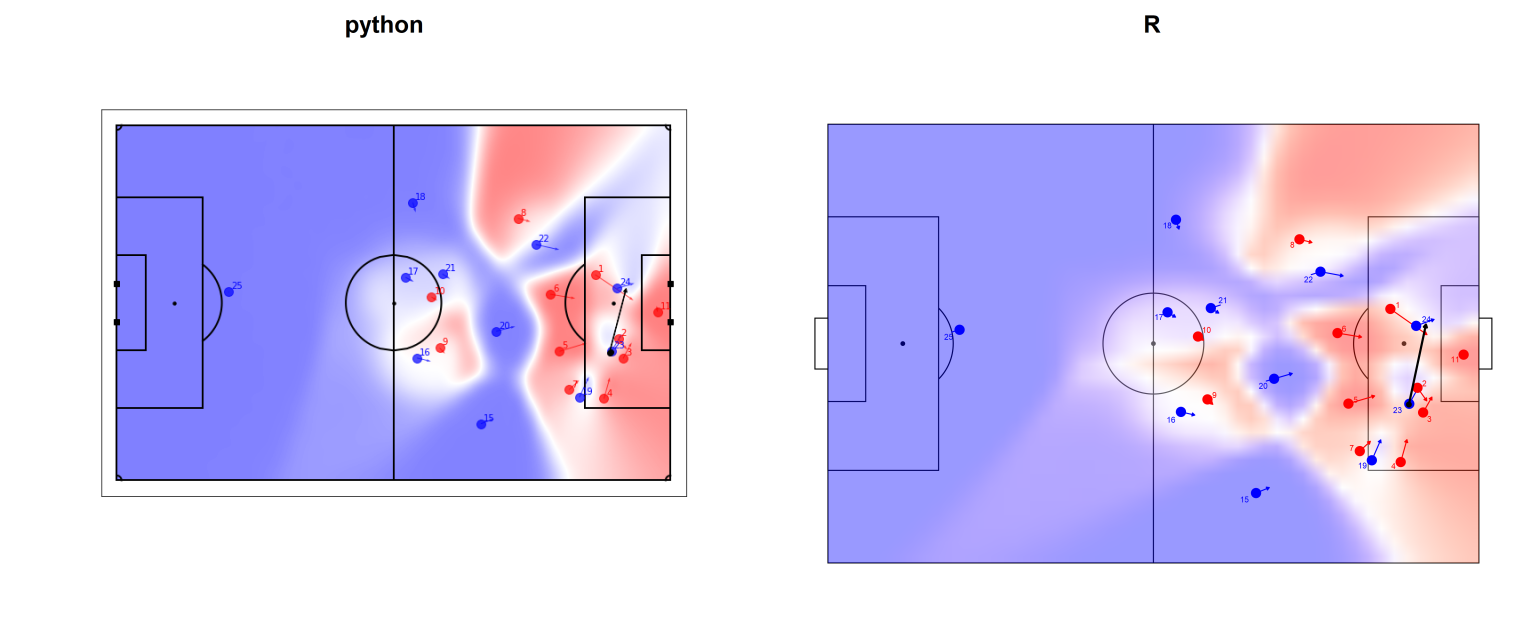
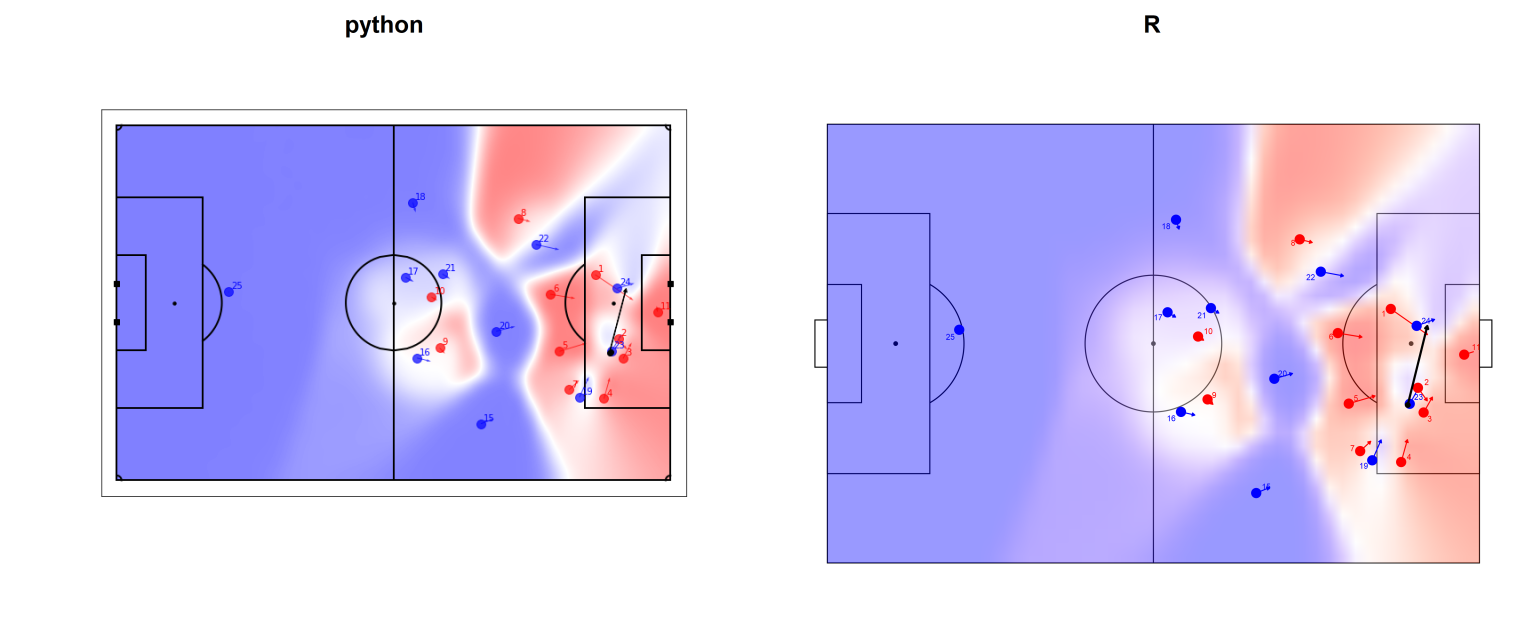
update pitch control post with fixes for field dimensions

diff --git a/content/post/soccer-pitch-control-r/index.html b/content/post/soccer-pitch-control-r/index.html
@@ -21,6 +21,7 @@ output:
 <script src="/rmarkdown-libs/header-attrs/header-attrs.js"></script>
 
 
+<p><strong><em>Note: This post was update on 2020-09-24 to correct field dimension translations that were previously distorting the pitch control contours. The R analogues now match up much more closely with the python versions after the updates.</em></strong></p>
 <div id="intro" class="section level2">
 <h2>Intro</h2>
 <p>There’s never been a better time to be involved in sports analytics. There is a wealth of open-sourced data and code (not to mention well-researched and public analysis) to digest and use. Both people working for teams and people just doing at as a hobby are publishing new and interesting analyses every day.</p>
@@ -68,7 +69,7 @@ output:
 <p><img src="viz_tti_ex.png" /></p>
 <p>The probability of reaching the “target” location (<code>p_intercept</code>) is directly related to the player’s <code>tti</code>. Uncertainty about how long it will take the player to reach the target location is quantified by the constant <code>tti_sigma</code> in the calculation. (<code>tti</code> is the mean and <code>tti_sigma</code> is the standard deviation of the distribution for a player’s time to arrive at the target location.)</p>
 <p><img src="viz_p_intercept_ex_1.png" /></p>
-<p>Notably, this probability is independent of all other players’ probabilities (which explains how it is possible that both players are shown to have probabilities greater than 50% when <code>t = 8</code> above). When adjusting for all players’ probabilities (by dividing by the sum of all probabilities), the numbers change. This probability adjustment is key when we calculate pitch control.</p>
+<p>Notably, this probability is independent of all other players’ probabilities (which explains how it is possible that both players are shown to have probabilities greater than 50% when <code>t = 6</code> above). When adjusting for all players’ probabilities (by dividing by the sum of all probabilities), the numbers change. This probability adjustment is key when we calculate pitch control.</p>
 <p><img src="viz_p_intercept_ex_2.png" /></p>
 <p>Ok, on to the R code. We’ll be using <a href="https://adv-r.hadley.nz/s3.html">S3</a> and the <a href="https://vctrs.r-lib.org/"><code>{vctrs}</code> package</a> to help create our <code>player</code> class. (As with the python class, I’ve simplified the actual implementation for demonstration purposes.)</p>
 <p>First, we start with the constructor <code>new_player()</code>. Note that there is no direct <code>__init__</code> equivalent in R. Here we will make a function that is prefixed with <code>new_</code> and ends with the name of our class (<code>player</code>).</p>
@@ -308,12 +309,12 @@ map(players, ~vctrs::field(.x, &#39;tti&#39;))</code></pre>
 <p><img src="pc_823_r.png" /></p>
 <p>Compare this to the python version.</p>
 <p><img src="pc_822_python.png" /></p>
-<p>By no means is it a perfect replication—some of the contour edges are at different angles—but I think it’s a pretty good emulation overall.</p>
+<p>It’s not a perfect replication, but I think it’s very close overall.</p>
 <p>Second, let’s replicate the <a href="http://www.sloansportsconference.com/wp-content/uploads/2019/02/Decomposing-the-Immeasurable-Sport.pdf">expected possession value (EPV)</a> plot of the same event, including the EPV added by the pass.</p>
 <p><img src="epv_823_r.png" /></p>
 <p>Again, we can compare this plot to the python equivalent.</p>
 <p><img src="epv_822_python.png" /></p>
-<p>Cool, it seems to be pretty close. We do have a small discrepancy in the EPV added calculation. (This EPV is actually an “expected” EPV calculation that uses pitch control to weight the pre-learned EPV grid). I believe this is probably due to discrepancies in the integration done in the pitch control calculation and not due to a significant a code issue.</p>
+<p>Cool, my R version seems to very close to the python original. We do have a small discrepancy in the EPV added calculation. (This EPV is actually an “expected” EPV calculation that uses pitch control to weight the pre-learned EPV grid). I believe this is probably due to discrepancies in the integration done in the pitch control calculation and not due to a significant a code issue.</p>
 <p>The code to prepare the data for these plots gets more complex, which is why I have excluded it here.<a href="#fn10" class="footnote-ref" id="fnref10"><sup>10</sup></a> However, none of it is unreasonably difficult to understand or implement once we have a properly defined <code>player</code> object.</p>
 </div>
 <div id="conclusion" class="section level2">

diff --git a/content/post/soccer-pitch-control-r/index.md b/content/post/soccer-pitch-control-r/index.md
@@ -20,6 +20,8 @@ output:
 
 
 
+***Note: This post was update on 2020-09-24 to correct field dimension translations that were previously distorting the pitch control contours. The R analogues now match up much more closely with the python versions after the updates.***
+
 ## Intro
 
 There's never been a better time to be involved in sports analytics. There is a wealth of open-sourced data and code (not to mention well-researched and public analysis) to digest and use. Both people working for teams and people just doing at as a hobby are publishing new and interesting analyses every day.
@@ -97,7 +99,7 @@ The probability of reaching the "target" location (`p_intercept`) is directly re
 
 ![](viz_p_intercept_ex_1.png)
 
-Notably, this probability is independent of all other players' probabilities (which explains how it is possible that both players are shown to have probabilities greater than 50% when `t = 8` above). When adjusting for all players' probabilities (by dividing by the sum of all probabilities), the numbers change. This probability adjustment is key when we calculate pitch control.
+Notably, this probability is independent of all other players' probabilities (which explains how it is possible that both players are shown to have probabilities greater than 50% when `t = 6` above). When adjusting for all players' probabilities (by dividing by the sum of all probabilities), the numbers change. This probability adjustment is key when we calculate pitch control.
 
 ![](viz_p_intercept_ex_2.png)
 
@@ -415,7 +417,7 @@ Compare this to the python version.
 
 ![](pc_822_python.png)
 
-By no means is it a perfect replication---some of the contour edges are at different angles---but I think it's a pretty good emulation overall.
+It's not a perfect replication, but I think it's very close overall.
 
 Second, let's replicate the [expected possession value (EPV)](http://www.sloansportsconference.com/wp-content/uploads/2019/02/Decomposing-the-Immeasurable-Sport.pdf) plot of the same event, including the EPV added by the pass.
 
@@ -425,7 +427,7 @@ Again, we can compare this plot to the python equivalent.
 
 ![](epv_822_python.png)
 
-Cool, it seems to be pretty close. We do have a small discrepancy in the EPV added calculation. (This EPV is actually an "expected" EPV calculation that uses pitch control to weight the pre-learned EPV grid). I believe this is probably due to discrepancies in the integration done in the pitch control calculation and not due to a significant a code issue.
+Cool, my R version seems to very close to the python original. We do have a small discrepancy in the EPV added calculation. (This EPV is actually an "expected" EPV calculation that uses pitch control to weight the pre-learned EPV grid). I believe this is probably due to discrepancies in the integration done in the pitch control calculation and not due to a significant a code issue.
 
 The code to prepare the data for these plots gets more complex, which is why I have excluded it here.[^10] However, none of it is unreasonably difficult to understand or implement once we have a properly defined `player` object.
 
